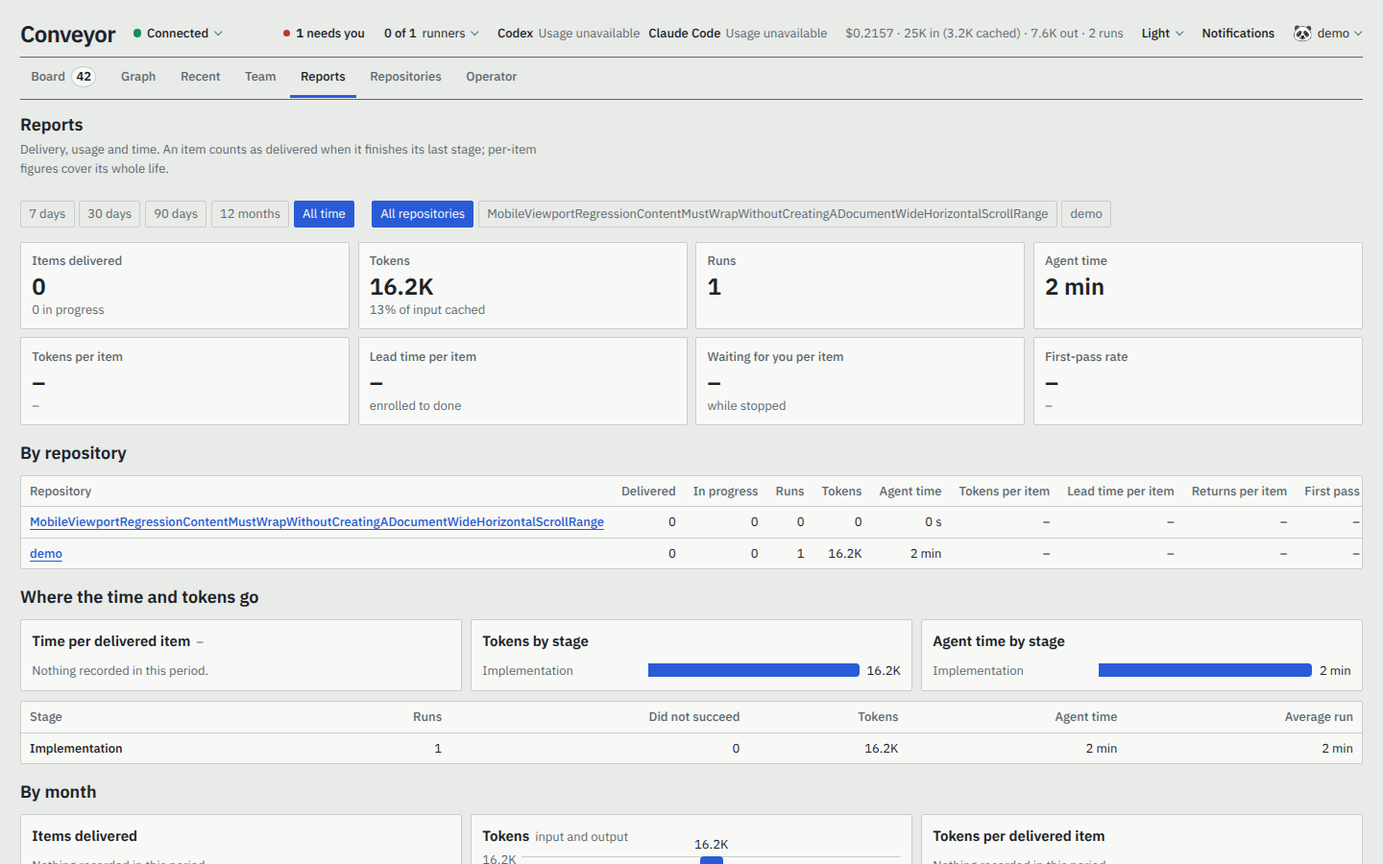
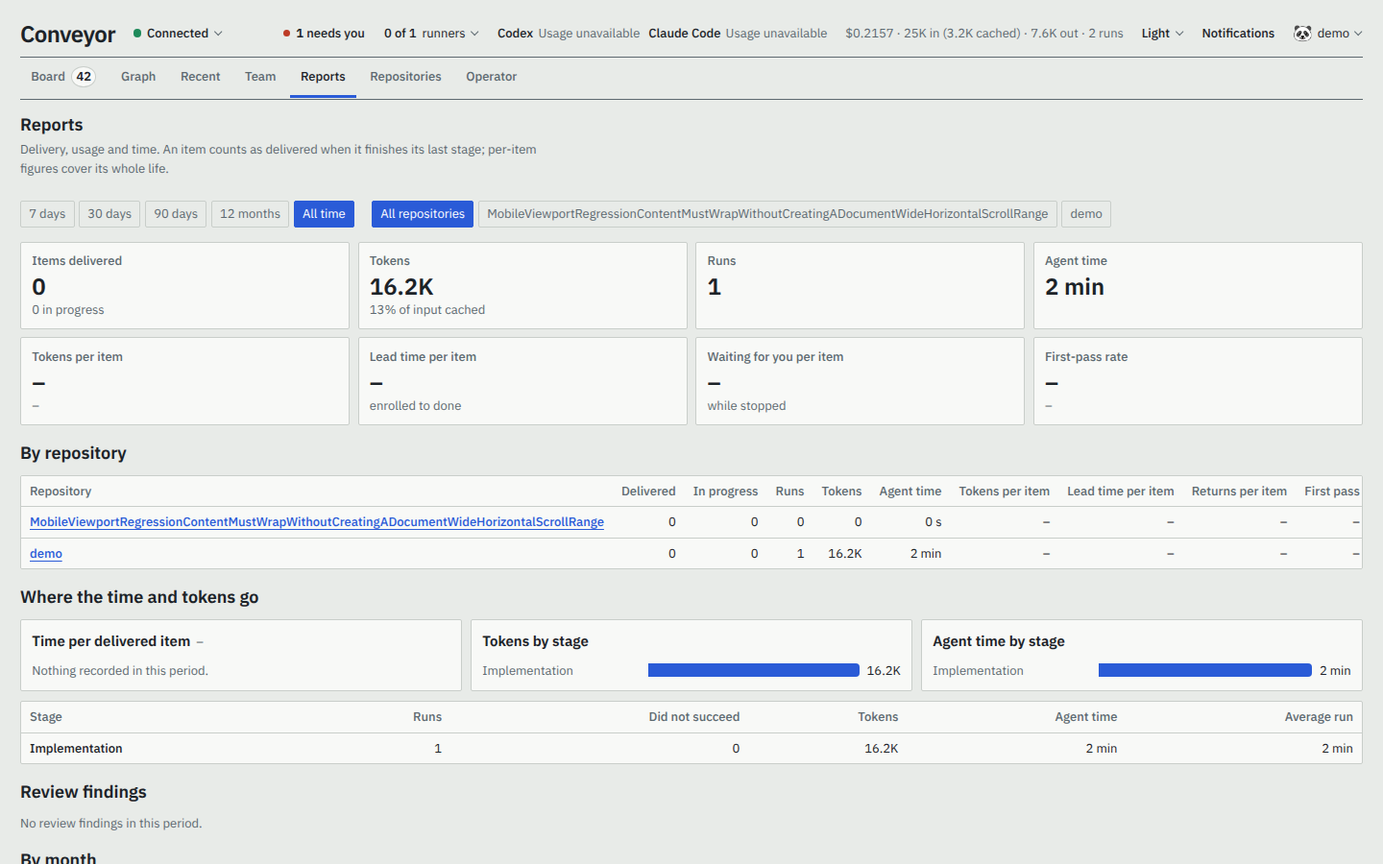
Show finding-type trends in dashboard reports (#477)
* Show finding-type trends in the dashboard Reports view

* Declare the report finding types compactly so type-only lines do not count as uncovered

---------

diff --git a/src/web/styles.ts b/src/web/styles.ts
@@ -53,7 +53,7 @@ body:has(dialog[open]){overflow:hidden}
 @keyframes belt{to{background-position:24px 0}}@keyframes spin{to{transform:rotate(360deg)}}@keyframes card-glow{0%,100%{box-shadow:0 0 0 1px var(--glow-border),0 0 8px var(--card-glow)}50%{box-shadow:0 0 0 1px var(--glow-border),0 0 18px var(--card-glow)}}
 @media(prefers-reduced-motion:no-preference){.line-station--running::after{animation:belt 2.4s linear infinite}.issue--glow-running,.issue--glow-attention{animation:card-glow 2.4s ease-in-out infinite}}
 @media(max-width:760px){.dashboard{min-width:0;max-width:100%;overflow-x:hidden;padding:.45rem .5rem 1rem}.dashboard-header{min-width:0;max-width:100%;gap:.2rem .9rem;padding:.45rem 0}.wordmark{font-size:var(--text-lg)}.total-usage{order:11;flex-basis:100%;text-align:left}.header-popover,.runner-status .header-popover,.theme-control .header-popover{position:fixed;top:3.5rem;right:.5rem;left:.5rem;width:auto;max-height:calc(100dvh - 4rem);overflow:auto;transform:none}.line{margin:.45rem 0 .7rem;padding:.35rem 0 .45rem}.line>h2{margin-bottom:.2rem}.line ol{position:relative;display:grid}.line ol::before{content:"";position:absolute;top:.75rem;bottom:.75rem;left:.47rem;width:2px;background:var(--steel)}.line-station{min-width:0}.line-station::after{display:none}.line-station a{display:grid;grid-template-columns:minmax(0,1fr) auto;justify-items:stretch;gap:.5rem;padding:.28rem 0 .28rem 1.35rem;text-align:left}.line-station a::before{position:absolute;top:.62rem;left:.14rem;order:initial;width:.55rem;height:.55rem;border-width:2px}.line-station-name,.line-station-state{order:initial}.line-station-state{justify-self:end}.needs-you-item{align-items:start;gap:.55rem;padding:.55rem}.needs-you-item--question form{grid-column:2/-1;justify-content:flex-start}.needs-you-item .free-text{min-width:min(12rem,100%)}.tabs{min-width:0;margin-bottom:.7rem;overflow-x:auto}.tab{padding:.55rem .65rem;white-space:nowrap}.board{min-width:0;gap:.45rem}.stage{width:calc(100vw - 1.5rem);min-width:calc(100vw - 1.5rem);max-width:calc(100vw - 1.5rem);flex-basis:calc(100vw - 1.5rem)}.issue-status{flex-wrap:nowrap}.issue-details.issue-inspector{width:100vw;height:100dvh;padding:.7rem;border-left:0}.details-tabs{min-width:0;overflow-x:auto}.details-tabs button{white-space:nowrap}.details-facts{grid-template-columns:1fr}.conversation-message{max-width:100%}.conversation-message header,.journey-entry header,.activity-run>header,.activity-events li>div{align-items:flex-start;flex-wrap:wrap}.conversation-compose-actions{align-items:stretch;flex-direction:column}.agent-layout{grid-template-columns:minmax(0,1fr)}.agent-history{order:-1;min-width:0}.agent-history ol{display:flex;overflow-x:auto}.agent-history li{flex:0 0 auto}.compose-actions{align-items:flex-end;flex-direction:column}.agent-event{max-width:96%}.agent-facts{grid-template-columns:1fr}.mini-line{overflow-x:auto}.mini-line ol{min-width:max-content}.mini-line li{min-width:7rem}}
-.report{display:grid;gap:1rem;padding-bottom:1.5rem}.report-heading p{margin:.2rem 0 0;color:var(--steel);font-size:var(--text-sm);max-width:70ch}.report-filters{display:flex;flex-wrap:wrap;gap:.5rem 1.2rem}.report-filters nav{display:flex;flex-wrap:wrap;gap:.3rem}.report-chip{border:1px solid var(--line);border-radius:2px;padding:.2rem .55rem;color:var(--steel);font-size:var(--text-sm);text-decoration:none}.report-chip:hover{color:var(--ink);border-color:var(--steel)}.report-chip--active{border-color:var(--signal);background:var(--signal);color:var(--on-signal)}.report-kpis{display:grid;grid-template-columns:repeat(4,minmax(0,1fr));gap:.55rem;margin:0}@media(max-width:760px){.report-kpis{grid-template-columns:repeat(2,minmax(0,1fr))}}.report-tile{border:1px solid var(--line);border-radius:2px;background:var(--panel);padding:.65rem .75rem}.report-tile dt{color:var(--steel);font-size:var(--text-sm);font-weight:500}.report-tile dd{display:grid;margin:.15rem 0 0}.report-tile-value{color:var(--ink);font-size:var(--text-xl);font-weight:600;line-height:1.2}.report-tile-detail{color:var(--steel);font-size:var(--text-sm)}.report-section{display:grid;gap:.65rem}.report-section h3{margin:0;font-size:var(--text-lg);font-weight:600}.report-chart-row{display:grid;grid-template-columns:repeat(auto-fit,minmax(min(100%,18rem),1fr));gap:.6rem}.report-chart{margin:0;border:1px solid var(--line);border-radius:2px;background:var(--panel);padding:.75rem;min-width:0}.report-chart figcaption{display:flex;flex-wrap:wrap;align-items:baseline;gap:.4rem;margin-bottom:.6rem;font-size:var(--text-body)}.report-chart figcaption strong{font-weight:600}.report-chart figcaption span{color:var(--steel);font-size:var(--text-sm)}.report-empty{margin:0;color:var(--steel);font-size:var(--text-sm)}.report-bars{display:grid;gap:.45rem;margin:0;padding:0;list-style:none}.report-bars li{display:grid;grid-template-columns:minmax(6rem,38%) minmax(0,1fr) auto;align-items:center;gap:.5rem;font-size:var(--text-sm)}.report-bar-label{color:var(--steel);overflow:hidden;text-overflow:ellipsis;white-space:nowrap}.report-bar-value{color:var(--ink);font-variant-numeric:tabular-nums;white-space:nowrap}.report-bar-track{display:block;height:14px}.report-bar{position:relative;display:block;height:100%;border-radius:0 4px 4px 0;background:var(--signal)}.report-columns-frame{display:grid;grid-template-columns:auto minmax(0,1fr);gap:.4rem}.report-ticks{display:flex;flex-direction:column;justify-content:space-between;height:9rem;margin:0;padding:0;list-style:none;color:var(--steel);font-size:var(--text-sm);font-variant-numeric:tabular-nums;text-align:right;transform:translateY(-.45em)}.report-columns{display:flex;align-items:stretch;gap:2px;margin:0;padding:0;list-style:none;background:linear-gradient(var(--line),var(--line)) top/100% 1px no-repeat,linear-gradient(var(--line),var(--line)) center 4.5rem/100% 1px no-repeat}.report-columns li{display:grid;grid-template-rows:9rem auto;flex:1 1 0;min-width:0;justify-items:center;gap:.3rem}.report-column-plot{display:flex;align-items:flex-end;justify-content:center;width:100%;height:9rem;border-bottom:1px solid var(--line)}.report-column{position:relative;display:block;width:min(24px,70%);border-radius:4px 4px 0 0;background:var(--signal)}.report-column-value{position:absolute;bottom:100%;left:50%;transform:translateX(-50%);padding-bottom:2px;color:var(--ink);font-size:var(--text-sm);font-variant-numeric:tabular-nums;white-space:nowrap}.report-column-label{color:var(--steel);font-size:var(--text-sm);white-space:nowrap}.report-bar:hover,.report-bar:focus-visible,.report-column:hover,.report-column:focus-visible{filter:brightness(1.12);outline:none}[data-tip]:hover::after,[data-tip]:focus-visible::after{content:attr(data-tip);position:absolute;z-index:5;left:50%;bottom:calc(100% + 1.4rem);transform:translateX(-50%);padding:.25rem .45rem;border:1px solid var(--line);border-radius:2px;background:var(--panel);box-shadow:var(--popover-shadow);color:var(--ink);font-size:var(--text-sm);white-space:nowrap;pointer-events:none}.report-bar[data-tip]:hover::after,.report-bar[data-tip]:focus-visible::after{bottom:calc(100% + .35rem)}.report-table-wrap{overflow-x:auto;border:1px solid var(--line);border-radius:2px;background:var(--panel)}.report-table{width:100%;border-collapse:collapse;font-size:var(--text-sm)}.report-table th,.report-table td{padding:.4rem .6rem;border-bottom:1px solid var(--line);text-align:right;white-space:nowrap;font-variant-numeric:tabular-nums}.report-table thead th{color:var(--steel);font-weight:500}.report-table th[scope=row],.report-table thead th:first-child{text-align:left;font-weight:500}.report-table tbody tr:last-child>*{border-bottom:0}.report-table--items th[scope=row]{max-width:28rem;overflow:hidden;text-overflow:ellipsis}.report-item-title{color:var(--steel);font-weight:400}.report-notes{margin:0;color:var(--steel);font-size:var(--text-sm);max-width:90ch}
+.report{display:grid;gap:1rem;padding-bottom:1.5rem}.report-heading p{margin:.2rem 0 0;color:var(--steel);font-size:var(--text-sm);max-width:70ch}.report-filters{display:flex;flex-wrap:wrap;gap:.5rem 1.2rem}.report-filters nav{display:flex;flex-wrap:wrap;gap:.3rem}.report-chip{border:1px solid var(--line);border-radius:2px;padding:.2rem .55rem;color:var(--steel);font-size:var(--text-sm);text-decoration:none}.report-chip:hover{color:var(--ink);border-color:var(--steel)}.report-chip--active{border-color:var(--signal);background:var(--signal);color:var(--on-signal)}.report-kpis{display:grid;grid-template-columns:repeat(4,minmax(0,1fr));gap:.55rem;margin:0}@media(max-width:760px){.report-kpis{grid-template-columns:repeat(2,minmax(0,1fr))}}.report-tile{border:1px solid var(--line);border-radius:2px;background:var(--panel);padding:.65rem .75rem}.report-tile dt{color:var(--steel);font-size:var(--text-sm);font-weight:500}.report-tile dd{display:grid;margin:.15rem 0 0}.report-tile-value{color:var(--ink);font-size:var(--text-xl);font-weight:600;line-height:1.2}.report-tile-detail{color:var(--steel);font-size:var(--text-sm)}.report-section{display:grid;gap:.65rem}.report-section h3{margin:0;font-size:var(--text-lg);font-weight:600}.report-chart-row{display:grid;grid-template-columns:repeat(auto-fit,minmax(min(100%,18rem),1fr));gap:.6rem}.report-chart{margin:0;border:1px solid var(--line);border-radius:2px;background:var(--panel);padding:.75rem;min-width:0}.report-chart figcaption{display:flex;flex-wrap:wrap;align-items:baseline;gap:.4rem;margin-bottom:.6rem;font-size:var(--text-body)}.report-chart figcaption strong{font-weight:600}.report-chart figcaption span{color:var(--steel);font-size:var(--text-sm)}.report-empty{margin:0;color:var(--steel);font-size:var(--text-sm)}.report-bars{display:grid;gap:.45rem;margin:0;padding:0;list-style:none}.report-bars li{display:grid;grid-template-columns:minmax(6rem,38%) minmax(0,1fr) auto;align-items:center;gap:.5rem;font-size:var(--text-sm)}.report-bar-label{color:var(--steel);overflow:hidden;text-overflow:ellipsis;white-space:nowrap}.report-bar-value{color:var(--ink);font-variant-numeric:tabular-nums;white-space:nowrap}.report-bar-track{display:block;height:14px}.report-bar{position:relative;display:block;height:100%;border-radius:0 4px 4px 0;background:var(--signal)}.report-columns-frame{display:grid;grid-template-columns:auto minmax(0,1fr);gap:.4rem}.report-ticks{display:flex;flex-direction:column;justify-content:space-between;height:9rem;margin:0;padding:0;list-style:none;color:var(--steel);font-size:var(--text-sm);font-variant-numeric:tabular-nums;text-align:right;transform:translateY(-.45em)}.report-columns{display:flex;align-items:stretch;gap:2px;margin:0;padding:0;list-style:none;background:linear-gradient(var(--line),var(--line)) top/100% 1px no-repeat,linear-gradient(var(--line),var(--line)) center 4.5rem/100% 1px no-repeat}.report-columns li{display:grid;grid-template-rows:9rem auto;flex:1 1 0;min-width:0;justify-items:center;gap:.3rem}.report-column-plot{display:flex;align-items:flex-end;justify-content:center;width:100%;height:9rem;border-bottom:1px solid var(--line)}.report-column{position:relative;display:block;width:min(24px,70%);border-radius:4px 4px 0 0;background:var(--signal)}.report-column-value{position:absolute;bottom:100%;left:50%;transform:translateX(-50%);padding-bottom:2px;color:var(--ink);font-size:var(--text-sm);font-variant-numeric:tabular-nums;white-space:nowrap}.report-column-label{color:var(--steel);font-size:var(--text-sm);white-space:nowrap}.report-bar:hover,.report-bar:focus-visible,.report-column:hover,.report-column:focus-visible{filter:brightness(1.12);outline:none}[data-tip]:hover::after,[data-tip]:focus-visible::after{content:attr(data-tip);position:absolute;z-index:5;left:50%;bottom:calc(100% + 1.4rem);transform:translateX(-50%);padding:.25rem .45rem;border:1px solid var(--line);border-radius:2px;background:var(--panel);box-shadow:var(--popover-shadow);color:var(--ink);font-size:var(--text-sm);white-space:nowrap;pointer-events:none}.report-bar[data-tip]:hover::after,.report-bar[data-tip]:focus-visible::after{bottom:calc(100% + .35rem)}.report-table-wrap{overflow-x:auto;border:1px solid var(--line);border-radius:2px;background:var(--panel)}.report-table{width:100%;border-collapse:collapse;font-size:var(--text-sm)}.report-table th,.report-table td{padding:.4rem .6rem;border-bottom:1px solid var(--line);text-align:right;white-space:nowrap;font-variant-numeric:tabular-nums}.report-table thead th{color:var(--steel);font-weight:500}.report-table th[scope=row],.report-table thead th:first-child{text-align:left;font-weight:500}.report-table tbody tr:last-child>*{border-bottom:0}.report-table--items th[scope=row]{max-width:28rem;overflow:hidden;text-overflow:ellipsis}.report-item-title{color:var(--steel);font-weight:400}.report-notes{margin:0;color:var(--steel);font-size:var(--text-sm);max-width:90ch}.report-table caption{padding:.4rem .6rem;color:var(--ink);font-weight:600;text-align:left;caption-side:top}.report-table--findings th[scope=row]{white-space:normal;overflow-wrap:anywhere}
 .settings-page{display:grid;max-width:72rem;gap:1rem;padding-bottom:1.5rem}.settings-heading p{max-width:70ch}.settings-section{display:grid;gap:.65rem}.settings-section>h3,.settings-section>div>h3{margin:0;font-size:var(--text-lg);font-weight:600}.settings-section>div>p{max-width:62ch;margin:.15rem 0 0;color:var(--steel);font-size:var(--text-sm)}.settings-section--form{grid-template-columns:minmax(13rem,1fr) minmax(18rem,2fr);align-items:start;padding:.8rem;border:1px solid var(--line);border-radius:2px;background:var(--panel)}.settings-form{display:grid;grid-template-columns:minmax(8rem,11rem) minmax(0,1fr);align-items:center;gap:.55rem .75rem}.settings-form>label,.avatar-picker legend{color:var(--steel);font-size:var(--text-sm);font-weight:500}.settings-form>input{width:100%;border:1px solid var(--steel);padding:.5rem}.settings-actions{display:flex;grid-column:2;align-items:center;gap:.65rem;min-height:2rem}.settings-actions [role=status]{color:var(--steel);font-size:var(--text-sm)}.settings-actions [role=status][data-error=true]{color:var(--stop-text)}.profile-summary{display:flex;align-items:center;gap:.75rem;padding:.75rem;border:1px solid var(--line);border-radius:2px;background:var(--panel)}.profile-summary h3{margin:0;font-size:var(--text-lg);font-weight:600}.profile-summary p{margin:0;color:var(--steel);font-size:var(--text-sm)}.profile-avatar{display:grid;width:3.25rem;height:3.25rem;place-items:center;border:1px solid var(--line);border-radius:50%;background:var(--concrete);font-size:1.75rem}.avatar-picker{grid-column:1/-1;margin:0;padding:0;border:0}.avatar-picker label{position:relative}.avatar-picker>div{display:flex;flex-wrap:wrap;gap:.45rem;margin-top:.35rem}.avatar-picker label{display:block}.avatar-picker label>span:first-of-type{display:grid;width:2.75rem;height:2.75rem;place-items:center;border:1px solid var(--line);border-radius:50%;background:var(--concrete);font-size:1.45rem;transition:border-color .12s,box-shadow .12s}.avatar-picker label:hover>span:first-of-type{border-color:var(--steel)}.avatar-picker input:checked+span{border-color:var(--signal);box-shadow:0 0 0 2px var(--signal)}.avatar-picker input:focus-visible+span{outline:3px solid var(--signal);outline-offset:2px}.account-table th:first-child{display:flex;align-items:center;gap:.5rem}.account-row-avatar{display:inline-grid;width:1.8rem;height:1.8rem;place-items:center;border:1px solid var(--line);border-radius:50%;background:var(--concrete);font-size:1rem}.account-table th,.account-table td{text-align:left}.account-table th:last-child,.account-table td:last-child{width:12rem}
 .account-table thead th:first-child{display:table-cell}.notification-form{display:block}.notification-options{display:grid;gap:.55rem;margin:0 0 .8rem;padding:0;border:0}.notification-options legend{margin-bottom:.5rem;color:var(--steel);font-size:var(--text-sm);font-weight:500}.notification-options label{display:flex;align-items:flex-start;gap:.55rem;color:var(--ink);font-size:var(--text-sm);font-weight:400}.notification-options input{margin-top:.2rem;accent-color:var(--signal)}.notification-form .settings-actions{display:flex}.settings-status{margin:.75rem 0 0;color:var(--steel);font-size:var(--text-sm)}.header-link.header-link--active{color:var(--signal);box-shadow:inset 0 -2px var(--signal)}.dashboard-navigating main.dashboard{cursor:progress}
 @media(max-width:760px){.settings-section--form{grid-template-columns:1fr}.settings-form{grid-template-columns:1fr}.settings-actions{grid-column:1}.account-table th:last-child,.account-table td:last-child{width:auto}}

diff --git a/tests/web/render.test.ts b/tests/web/render.test.ts
@@ -3,7 +3,7 @@ import { renderDashboard } from "../support/render-dashboard";
 import { viewTitle } from "../../src/web/render";
 import { BUILD } from "../../src/version";
 import { dashboardCss, graphCss, quotaHeaderCss, themeInitScript } from "../../src/web/styles";
-import type { DashboardView, DashboardViewModel, IssueCardViewModel } from "../../src/web/types";
+import type { DashboardView, DashboardViewModel, IssueCardViewModel, ReportViewModel } from "../../src/web/types";
 
 const parent: IssueCardViewModel = {
   id: "parent",
@@ -889,6 +889,53 @@ describe("renderDashboard", () => {
     }
   });
 
+  const noFindings = { total: 0, reviewRounds: 0, byType: [], byRepository: [], byAuthor: [], byWeek: [] };
+  const findingsReport = (overrides: Partial<ReportViewModel> = {}): ReportViewModel => ({
+    period: "30d", since: "2026-09-03T00:00:00.000Z", repository: null, repositories: ["alpha", "beta"],
+    totals: {
+      delivered: 0, inProgress: 0, runs: 0, failedRuns: 0, inputTokens: 0, outputTokens: 0, cachedTokens: 0, agentMs: 0,
+      avgTokensPerItem: null, avgRunsPerItem: null, avgLeadMs: null, avgAgentMs: null, avgChecksWaitMs: null, avgWaitingForYouMs: null, avgQueuedMs: null,
+      avgReturnsPerItem: null, avgStopsPerItem: null, firstPassRate: null,
+    },
+    byRepository: [], byMonth: [], byStage: [], items: [], importedWithoutHistory: 0, generatedAt: "2026-10-03T00:00:00.000Z",
+    findings: {
+      total: 4, reviewRounds: 8,
+      byType: [
+        { type: "bug", findings: 3, rounds: 2, share: 0.25 },
+        { type: "docs", findings: 1, rounds: 1, share: 0.125 },
+        { type: "style", findings: 0, rounds: 0, share: 0 },
+      ],
+      byRepository: [{ key: "alpha", count: 3 }, { key: "beta", count: 1 }],
+      byAuthor: [{ key: "reviewer", count: 3 }, { key: "<b>mallory</b>", count: 1 }],
+      byWeek: [{ key: "2026-W43", count: 3 }, { key: "2026-W42", count: 1 }],
+    },
+    ...overrides,
+  });
+
+  test("renders the finding section: count and share of rounds per type, and counts by repository, author and UTC ISO week", () => {
+    const html = renderDashboard({ ...dashboard, view: "reports", report: findingsReport() });
+    expect(html).toContain("Review findings");
+    expect(html).toContain('<tr><th scope="row">bug</th><td>3</td><td>2</td><td>25%</td></tr>');
+    expect(html).toContain('<tr><th scope="row">docs</th><td>1</td><td>1</td><td>13%</td></tr>');
+    expect(html).toContain('<tr><th scope="row">style</th><td>0</td><td>0</td><td>0%</td></tr>');
+    expect(html).toContain("4 findings across 8 review rounds");
+    expect(html).toContain('<tr><th scope="row">alpha</th><td>3</td></tr>');
+    expect(html).toContain("By author");
+    expect(html).toContain('<tr><th scope="row">reviewer</th><td>3</td></tr>');
+    expect(html).toContain("&lt;b>mallory&lt;/b>");
+    expect(html).toContain("By UTC ISO week");
+    expect(html).toContain('<tr><th scope="row">2026-W43</th><td>3</td></tr>');
+  });
+
+  test("the finding section of a repository-selected report leaves out the repository table and says so when empty", () => {
+    const scoped = renderDashboard({ ...dashboard, view: "reports", report: findingsReport({ repository: "alpha" }) });
+    expect(scoped).toContain("By author");
+    expect(scoped).not.toContain('id="report-finding-repositories"');
+    const empty = renderDashboard({ ...dashboard, view: "reports", report: findingsReport({ repository: "alpha", findings: noFindings }) });
+    expect(empty).toContain("No review findings for alpha in this period.");
+    expect(empty).not.toContain("By UTC ISO week");
+  });
+
   test("renders the Reports view: tab, filters, figures, drill-through links, escaped items and only non-zero bars", () => {
     const totals = {
       delivered: 2, inProgress: 1, runs: 5, failedRuns: 1, inputTokens: 4_900_000, outputTokens: 100_000, cachedTokens: 2_450_000, agentMs: 9 * 3_600_000,
@@ -908,6 +955,7 @@ describe("renderDashboard", () => {
           { id: "deploy", name: "Deploy", runs: 1, failedRuns: 0, tokens: 0, agentMs: 600_000, avgRunMs: 600_000 },
         ],
         items: [{ repository: "sample", number: 9, title: "<script>x</script>", state: "needs-input", finishedAt: null, leadMs: null, agentMs: 600_000, checksWaitMs: 0, waitingForYouMs: 0, runs: 1, tokens: 1_200, returns: 0, stops: 1 }],
+        findings: noFindings,
         importedWithoutHistory: 4,
         generatedAt: "2026-10-03T00:00:00.000Z",
       },

diff --git a/tests/app/reports.test.ts b/tests/app/reports.test.ts
@@ -136,4 +136,59 @@ describe("buildReport", () => {
     const report = buildReport({ store, config, period: "all", repository: "alpha", now: NOW });
     expect(report.items[0]).toMatchObject({ number: 2, waitingForYouMs: H, stops: 1 });
   });
+
+  describe("findings", () => {
+    async function withFindings() {
+      const store = await world();
+      const db = store.sqlite();
+      const review = (db.query("SELECT id FROM runs WHERE issue_id = 'a1' AND stage_id = 'review'").get() as { id: string }).id;
+      db.query("INSERT INTO runs(id, issue_id, stage_id, attempt, kind, status, config_hash, started_at, finished_at) VALUES ('rb', 'b7', 'review', 1, 'reviewer', 'succeeded', 'h', '2026-09-02T00:00:00.000Z', '2026-09-02T01:00:00.000Z')").run();
+      const finding = (id: string, issue: string, runId: string, type: string, author: string, at: string) =>
+        db.query("INSERT INTO findings(id, issue_id, run_id, provider_key, author, source, head_sha, state, body, created_at, type) VALUES (?, ?, ?, NULL, ?, 'agent', 'sha', 'open', 'b', ?, ?)").run(id, issue, runId, author, at, type);
+      finding("f1", "a1", review, "bug", "reviewer", "2026-10-12T00:00:00.000Z");
+      finding("f2", "a1", review, "bug", "reviewer", "2026-10-12T00:00:00.000Z");
+      finding("f3", "a1", review, "docs", "alice", "2026-10-20T00:00:00.000Z");
+      finding("f4", "b7", "rb", "security", "reviewer", "2026-09-02T00:00:00.000Z");
+      return store;
+    }
+    const counts = (rows: readonly { key: string; count: number }[]) => rows.map((row) => [row.key, row.count]);
+
+    test("the global report carries counts by type, repository, author and UTC ISO week, with each type's share of rounds", async () => {
+      const report = buildReport({ store: await withFindings(), config, period: "all", repository: null, now: NOW });
+      const findings = report.findings;
+      expect(findings.total).toBe(4);
+      expect(findings.reviewRounds).toBe(2);
+      const type = (name: string) => findings.byType.find((row) => row.type === name);
+      expect(type("bug")).toEqual({ type: "bug", findings: 2, rounds: 1, share: 0.5 });
+      expect(type("docs")).toMatchObject({ findings: 1, share: 0.5 });
+      expect(type("security")).toMatchObject({ findings: 1, share: 0.5 });
+      expect(type("style")).toEqual({ type: "style", findings: 0, rounds: 0, share: 0 });
+      expect(counts(findings.byRepository)).toEqual([["alpha", 3], ["beta", 1]]);
+      expect(counts(findings.byAuthor)).toEqual([["reviewer", 3], ["alice", 1]]);
+      expect(counts(findings.byWeek)).toEqual([["2026-W43", 1], ["2026-W42", 2], ["2026-W36", 1]]);
+    });
+
+    test("a selected repository keeps only that repository's findings", async () => {
+      const findings = buildReport({ store: await withFindings(), config, period: "all", repository: "beta", now: NOW }).findings;
+      expect(findings.total).toBe(1);
+      expect(findings.reviewRounds).toBe(1);
+      expect(counts(findings.byRepository)).toEqual([["beta", 1]]);
+      expect(counts(findings.byAuthor)).toEqual([["reviewer", 1]]);
+      expect(findings.byType.find((row) => row.type === "bug")).toMatchObject({ findings: 0, share: 0 });
+    });
+
+    test("a selected period keeps only that period's findings", async () => {
+      const findings = buildReport({ store: await withFindings(), config, period: "30d", repository: null, now: NOW }).findings;
+      expect(findings.total).toBe(3);
+      expect(findings.reviewRounds).toBe(1);
+      expect(counts(findings.byRepository)).toEqual([["alpha", 3]]);
+      expect(findings.byType.find((row) => row.type === "security")).toMatchObject({ findings: 0 });
+      expect(findings.byType.find((row) => row.type === "bug")).toMatchObject({ findings: 2, rounds: 1, share: 1 });
+    });
+
+    test("no findings give an empty report", async () => {
+      const findings = buildReport({ store: await world(), config, period: "all", repository: null, now: NOW }).findings;
+      expect(findings).toMatchObject({ total: 0, reviewRounds: 1, byRepository: [], byAuthor: [], byWeek: [] });
+    });
+  });
 });

diff --git a/src/web/report-page.tsx b/src/web/report-page.tsx
@@ -2,7 +2,7 @@
 // HTML bars (one series, one hue each) with a focusable tooltip; every chart sits beside a table of
 // the same numbers.
 
-import type { ReportItemRow, ReportPeriod, ReportTotals, ReportViewModel } from "./types";
+import type { ReportFindingCountRow, ReportItemRow, ReportPeriod, ReportTotals, ReportViewModel } from "./types";
 
 export const REPORT_PERIOD_VALUES: readonly ReportPeriod[] = ["7d", "30d", "90d", "12m", "all"];
 
@@ -263,6 +263,50 @@ function Items({ report }: { report: ReportViewModel }) {
   );
 }
 
+function FindingCounts({ id, title, label, rows }: { id: string; title: string; label: string; rows: readonly ReportFindingCountRow[] }) {
+  return (
+    <div class="report-table-wrap" role="group" aria-labelledby={id} tabIndex={0}>
+      <table class="report-table report-table--findings">
+        <caption id={id}>{title}</caption>
+        <thead><tr><th scope="col">{label}</th><th scope="col">Findings</th></tr></thead>
+        <tbody>{rows.map((row) => <tr key={row.key}><th scope="row">{row.key}</th><td>{row.count}</td></tr>)}</tbody>
+      </table>
+    </div>
+  );
+}
+
+function Findings({ report }: { report: ReportViewModel }) {
+  const findings = report.findings;
+  return (
+    <section class="report-section" aria-labelledby="report-findings">
+      <h3 id="report-findings">Review findings</h3>
+      {findings.total === 0
+        ? <p class="report-empty">No review findings{report.repository ? ` for ${report.repository}` : ""} in this period.</p>
+        : (
+          <>
+            <p class="report-notes">{findings.total} {findings.total === 1 ? "finding" : "findings"} across {findings.reviewRounds} review {findings.reviewRounds === 1 ? "round" : "rounds"}. Each counts once by its stored type; a type's share is the review rounds that raised at least one finding of it.</p>
+            <div class="report-table-wrap" role="group" aria-labelledby="report-finding-types" tabIndex={0}>
+              <table class="report-table report-table--findings">
+                <caption id="report-finding-types">By type</caption>
+                <thead><tr><th scope="col">Type</th><th scope="col">Findings</th><th scope="col">Rounds</th><th scope="col">Share of rounds</th></tr></thead>
+                <tbody>
+                  {findings.byType.map((row) => (
+                    <tr key={row.type}><th scope="row">{row.type}</th><td>{row.findings}</td><td>{row.rounds}</td><td>{orDash(row.share, percent)}</td></tr>
+                  ))}
+                </tbody>
+              </table>
+            </div>
+            <div class="report-chart-row">
+              {report.repository === null && <FindingCounts id="report-finding-repositories" title="By repository" label="Repository" rows={findings.byRepository} />}
+              <FindingCounts id="report-finding-authors" title="By author" label="Author" rows={findings.byAuthor} />
+              <FindingCounts id="report-finding-weeks" title="By UTC ISO week" label="Week" rows={findings.byWeek} />
+            </div>
+          </>
+        )}
+    </section>
+  );
+}
+
 export function Reports({ report }: { report: ReportViewModel }) {
   return (
     <section class="report" aria-labelledby="report-heading">
@@ -277,6 +321,7 @@ export function Reports({ report }: { report: ReportViewModel }) {
       {report.repository === null && <RepositoryTable report={report} />}
       {report.repository !== null && <Items report={report} />}
       <TimeAndStages report={report} />
+      <Findings report={report} />
       <Months report={report} />
       <p class="report-notes">
         Agent time is the wall time of runs. Waiting on CI and checks is time a stage spent parked on CI, a deploy or a dependency; waiting for you is time an item spent stopped (blocked, needs input, error) until it resumed; queued and other is the rest of the lead time.

diff --git a/tests/web/app/main.test.ts b/tests/web/app/main.test.ts
@@ -83,6 +83,13 @@ function startApp() {
     moveBacklogIssue: () => {}, startSteering: () => "run-1", postIssueMessage: () => ({}), retryIssue: () => ({}), dismissFinding: () => {},
     reclassifyFinding: (...args: unknown[]) => { reclassified.push(args); return { changed: true }; },
   });
+  const reportFindings = {
+    total: 5, reviewRounds: 9,
+    byType: [{ type: "criterion-not-met", findings: 3, rounds: 2, share: 2 / 9 }, { type: "test-not-discriminating", findings: 2, rounds: 2, share: 2 / 9 }, { type: "general", findings: 0, rounds: 0, share: 0 }],
+    byRepository: [{ key: "a-repository-with-a-very-long-identifier-name", count: 5 }],
+    byAuthor: [{ key: "codex-reviewer[bot]-with-a-long-author-name", count: 5 }],
+    byWeek: [{ key: "2026-W43", count: 5 }],
+  };
   const handler = createWebHandler({
     auth,
     username: "operator",
@@ -94,7 +101,7 @@ function startApp() {
       events: [{ id: "e1", occurredAt: "2026-10-20T11:00:00Z", type: "done", repository: "sample", repositoryColor: 1, issueNumber: 19, issueTitle: "Shipped thing", issueUrl: "/issues/sample/19", fromStage: "review", toStage: null, reason: null }],
     }),
     getSteeringView: () => ({ enabled: true, agent: "omid", selected: { id: "run-1", status: "succeeded", startedAt: "2026-10-20T10:00:00Z", finishedAt: "2026-10-20T10:01:00Z", events: [{ sequence: 1, type: "report", text: "Board checked.", createdAt: "2026-10-20T10:01:00Z" }] }, recent: [{ id: "run-1", status: "succeeded", startedAt: "2026-10-20T10:00:00Z" }] }),
-    getReport: ({ period, repository }) => ({ period, since: null, repository, repositories: ["sample"], totals: reportTotals, byRepository: [], byMonth: [], byStage: [], items: [], importedWithoutHistory: 0, generatedAt: "2026-10-20T12:00:00Z" }),
+    getReport: ({ period, repository }) => ({ period, since: null, repository, repositories: ["sample"], totals: reportTotals, byRepository: [], byMonth: [], byStage: [], items: [], findings: reportFindings, importedWithoutHistory: 0, generatedAt: "2026-10-20T12:00:00Z" }),
     listAccounts: () => [{ id: "operator", username: "operator", role: "superuser", avatar: "🐼" }],
     getPushPreferences: () => ({ questions: true, stopped: false, done: false }),
     isReady: () => true,
@@ -400,6 +407,29 @@ describe("dashboard application", () => {
       await page.locator(".tabs a", { hasText: "Operator" }).click();
       await page.locator(".agent-event", { hasText: "Board checked." }).waitFor();
       expect(new URL(page.url()).pathname).toBe("/operator");
+    } finally {
+      app.stop();
+    }
+  }, 30_000);
+
+  test("shows the finding report readably at 360 px without sideways page scrolling", async () => {
+    const app = startApp();
+    try {
+      browser = await chromium.launch();
+      const page = await browser.newPage({ viewport: { width: 360, height: 740 }, isMobile: true });
+      await signIn(page, app.url);
+      await page.goto(`${app.url}/reports`);
+      const section = page.locator('section[aria-labelledby="report-findings"]');
+      await section.waitFor();
+      await section.scrollIntoViewIfNeeded();
+      expect(await section.getByText("criterion-not-met").count()).toBe(1);
+      expect(await page.evaluate(() => document.documentElement.scrollWidth - document.documentElement.clientWidth)).toBeLessThanOrEqual(0);
+      const box = await section.boundingBox();
+      expect(box!.x).toBeGreaterThanOrEqual(0);
+      expect(box!.x + box!.width).toBeLessThanOrEqual(360);
+      const overflowing = await page.evaluate(() => [...document.querySelectorAll('section[aria-labelledby="report-findings"] *')]
+        .filter((element) => element.getBoundingClientRect().right > window.innerWidth + 1 && !element.closest(".report-table-wrap")).length);
+      expect(overflowing).toBe(0);
     } finally {
       app.stop();
     }

diff --git a/src/app/reports.ts b/src/app/reports.ts
@@ -7,8 +7,11 @@ import type { Database } from "bun:sqlite";
 
 import type { ConveyorConfig } from "../config/load";
 import type { ConveyorStore } from "../db/store";
+import { buildFindingReport } from "./finding-report";
 import { displayName } from "../tasks/agent-support";
 import type {
+  ReportFindingCountRow,
+  ReportFindings,
   ReportItemRow,
   ReportMonthRow,
   ReportPeriod,
@@ -216,6 +219,23 @@ function itemRows(items: readonly ItemFacts[], since: string | null): ReportItem
     }));
 }
 
+const byCount = (counts: Record<string, number>, order: (a: string, b: string) => number): ReportFindingCountRow[] =>
+  Object.entries(counts).map(([key, count]) => ({ key, count })).sort((a, b) => b.count - a.count || order(a.key, b.key));
+
+/** The shared finding report as view rows: types in taxonomy order, others by count, weeks newest first. */
+function findings(db: Database, repository: string | null, since: string | null): ReportFindings {
+  const report = buildFindingReport(db, { ...(repository ? { repositoryId: repository } : {}), ...(since ? { since } : {}) });
+  const byKey = (a: string, b: string) => a.localeCompare(b);
+  return {
+    total: report.total,
+    reviewRounds: report.reviewRounds,
+    byType: report.typeShares,
+    byRepository: byCount(report.byRepository, byKey),
+    byAuthor: byCount(report.byAuthor, byKey),
+    byWeek: Object.entries(report.byWeek).map(([key, count]) => ({ key, count })).sort((a, b) => b.key.localeCompare(a.key)),
+  };
+}
+
 export function buildReport(input: {
   store: ConveyorStore;
   config: ConveyorConfig;
@@ -242,6 +262,7 @@ export function buildReport(input: {
     byMonth: months(scope, since, now),
     byStage: stages(scope, since, now, input.config, scopeRepositories),
     items: input.repository ? itemRows(scope, since) : [],
+    findings: findings(input.store.sqlite(), input.repository, since),
     importedWithoutHistory: facts.filter((item) => imported(item) && (!input.repository || item.issue.repository_id === input.repository)).length,
     generatedAt: nowDate.toISOString(),
   };

diff --git a/src/web/types.ts b/src/web/types.ts
@@ -624,6 +624,15 @@ export interface ReportItemRow {
   stops: number;
 }
 
+/** A repository id, an author as stored, or a UTC ISO week (`YYYY-Www`), with its finding count. */
+export interface ReportFindingCountRow { key: string; count: number }
+
+/** `rounds` are the review rounds that raised this type; `share` is `rounds` over all rounds in scope (null when none). */
+export interface ReportFindingTypeRow { type: string; findings: number; rounds: number; share: number | null }
+
+/** Durable review findings in scope of the report's repository and period. */
+export interface ReportFindings { total: number; reviewRounds: number; byType: readonly ReportFindingTypeRow[]; byRepository: readonly ReportFindingCountRow[]; byAuthor: readonly ReportFindingCountRow[]; byWeek: readonly ReportFindingCountRow[] }
+
 export interface ReportViewModel {
   period: ReportPeriod;
   /** Start of the period (ISO), null for all time. */
@@ -637,6 +646,7 @@ export interface ReportViewModel {
   byStage: readonly ReportStageRow[];
   /** The items of the drilled-into repository with activity in the period (empty for every repository). */
   items: readonly ReportItemRow[];
+  findings: ReportFindings;
   /** Done items imported without a recorded delivery; left out of every figure. */
   importedWithoutHistory: number;
   generatedAt: string;

diff --git a/scripts/regenerate-screenshots.ts b/scripts/regenerate-screenshots.ts
@@ -1092,6 +1092,7 @@ async function main(): Promise<void> {
       "Reports",
       "16.2K",
       "Runs",
+      "Review findings",
     ]);
     await capture(page, baseUrl, "item", "/issues/demo/1", [
       "Ship a reliable dashboard overview",

diff --git a/SPEC.md b/SPEC.md
@@ -686,6 +686,7 @@ Review evidence is bound to the change head; the pull request is its projection.
 - **Findings.** A finding is a provider-neutral record with an id, a provider key when imported, author, source (`agent` or `human`), head SHA, state, location and URL. It has one fixed type: `criterion-not-met`, `test-missing-case`, `test-not-real`, `test-not-discriminating`, `test-not-run`, `bug`, `concurrency`, `security`, `error-handling`, `performance`, `design`, `docs`, `style` or `general`; `general` is the default for existing records, omitted agent types and trusted native imports. A finding may link zero or more acceptance-criterion IDs. States: `open`, `resolved`, `dismissed`, `withdrawn`; every change is kept in an audit trail. A reviewer records one with `change.comment` (an inline review comment when `path` and `line` are in the diff, otherwise a managed change comment). `change.load` imports native review only from authors with GitHub `write`, `maintain`, or `admin` permission, or a case-insensitive repository `extraTrustedLogins` entry. Unavailable permission data makes the import retryable rather than accepting or silently omitting the artifact. Untrusted artifacts are recorded without their text and do not enter an agent context; a trusted reply may create a finding from its own text. Unresolved threads and changes-requested reviews (a changes-requested review without a thread becomes one top-level finding) use the provider artifact id as the deduplication key, edits update the same record, resolved threads resolve it, and a deleted artifact becomes an audited `withdrawn` finding. Ordinary conversation comments are not findings. Imported findings stay provider-authoritative: an agent closes one with `change.resolveFinding` (verdict `fixed` or `invalid` and a comment), which replies on the native thread with the verdict, the current head and the agent's name, adds a thumbs up or down, and resolves the thread; the record is resolved only when the thread is, and a thread that is unresolved again reopens it. A changes-requested review has no thread: the agent's answer is a change comment and the record stays resolved. Agent findings get the same reply and reaction on their projection.
 - **Gate.** `change.findingsResolved` fails while any finding is open. A reviewer result of `changes-requested` with no recorded finding is invalid. The gate's passing records `reviewPassed`.
 - **Operator dismissal.** An operator dismisses an open finding with `POST /api/issues/:issueId/findings/:findingId/dismiss` (signed-in dashboard session, `X-CSRF-Token`, JSON `{ "reason": "..." }`, non-empty reason). The route calls the same task dispatcher as `change.dismissFinding` with the signed-in user as a human actor. `change.dismissFinding` is never grantable to an agent. The authorization is the single dashboard login; provider-level human-login allowlists are not supported. The web UI has no dismiss control yet.
+- **Finding report.** The Reports view (`GET /api/v1/views/reports`, `findings` in the report) shows the shared finding report for the selected repository and period, read-only for any signed-in viewer: findings by stored type with each type's share of review rounds, and counts by repository (global view only), stored author and UTC ISO week, with an empty state when no finding matches.
 - **Operator reclassification.** The Journey tab of the issue inspector lists the visible findings of the item, each with its stored type beside it. A signed-in superuser changes the type of any stored finding (agent or trusted imported) with the `finding.reclassify` command, sent by `POST /api/issues/:issueId/findings/:findingId/type` (signed-in session, superuser role, `X-CSRF-Token`, JSON `{ "type": "<finding type>" }`); a signed-in non-superuser gets 403, an unauthenticated request 401 and a bad CSRF token 403. The type write, its audit row and a `finding.changed` event with `change: "reclassified"` (finding ID and new type, no text) are recorded in one transaction. Submitting the current type changes nothing and records no event. The code-host review text of an imported finding is never changed. The control is shown only to superusers and stays usable at 360 px without horizontal page scrolling.
 
 GitHub's repository interaction limits and protection settings are a separate operator-controlled

diff --git a/docs/dashboard.md b/docs/dashboard.md
@@ -95,7 +95,7 @@ A superuser can **Pause** a repository from its detail page, optionally recordin
 
 ![Repository detail and setup](screenshots/repository.png)
 
-**Reports** (`/reports`, drill into one repository with `/reports/<repository>`, filter with `?period=7d|30d|90d|12m`, all time by default) show delivery, usage and time: items delivered and in progress, runs (and how many did not succeed), tokens and their cached share, agent time, and per delivered item the average tokens, runs, lead time (enrolled to done), returns and first-pass rate. It breaks an item's lead time into agents working, waiting on CI and checks, waiting for you (stopped) and queued, and shows tokens and agent time per stage, per repository and per month. A repository's page lists its items with the same figures, each linking to the item. An item counts as delivered when it finishes its last stage; done items imported without that record are left out and counted in a note.
+**Reports** (`/reports`, drill into one repository with `/reports/<repository>`, filter with `?period=7d|30d|90d|12m`, all time by default) show delivery, usage and time: items delivered and in progress, runs (and how many did not succeed), tokens and their cached share, agent time, and per delivered item the average tokens, runs, lead time (enrolled to done), returns and first-pass rate. It breaks an item's lead time into agents working, waiting on CI and checks, waiting for you (stopped) and queued, and shows tokens and agent time per stage, per repository and per month. A repository's page lists its items with the same figures, each linking to the item. An item counts as delivered when it finishes its last stage; done items imported without that record are left out and counted in a note. A **Review findings** section follows the same repository and period selection: findings by stored type with each type's share of review rounds (the rounds that raised at least one finding of it, over all review rounds), and counts by repository, stored author and UTC ISO week, or a note when nothing matches. It is read-only.
 
 ![Reports](screenshots/reports.png)
 

diff --git a/changes/435-finding-report-dashboard.md b/changes/435-finding-report-dashboard.md
@@ -1,0 +1,5 @@
+---
+section: Added
+---
+
+The Reports view now has a Review findings section with finding counts by type, each type's share of review rounds, and counts by repository, author and UTC ISO week, following the repository and period selectors.
